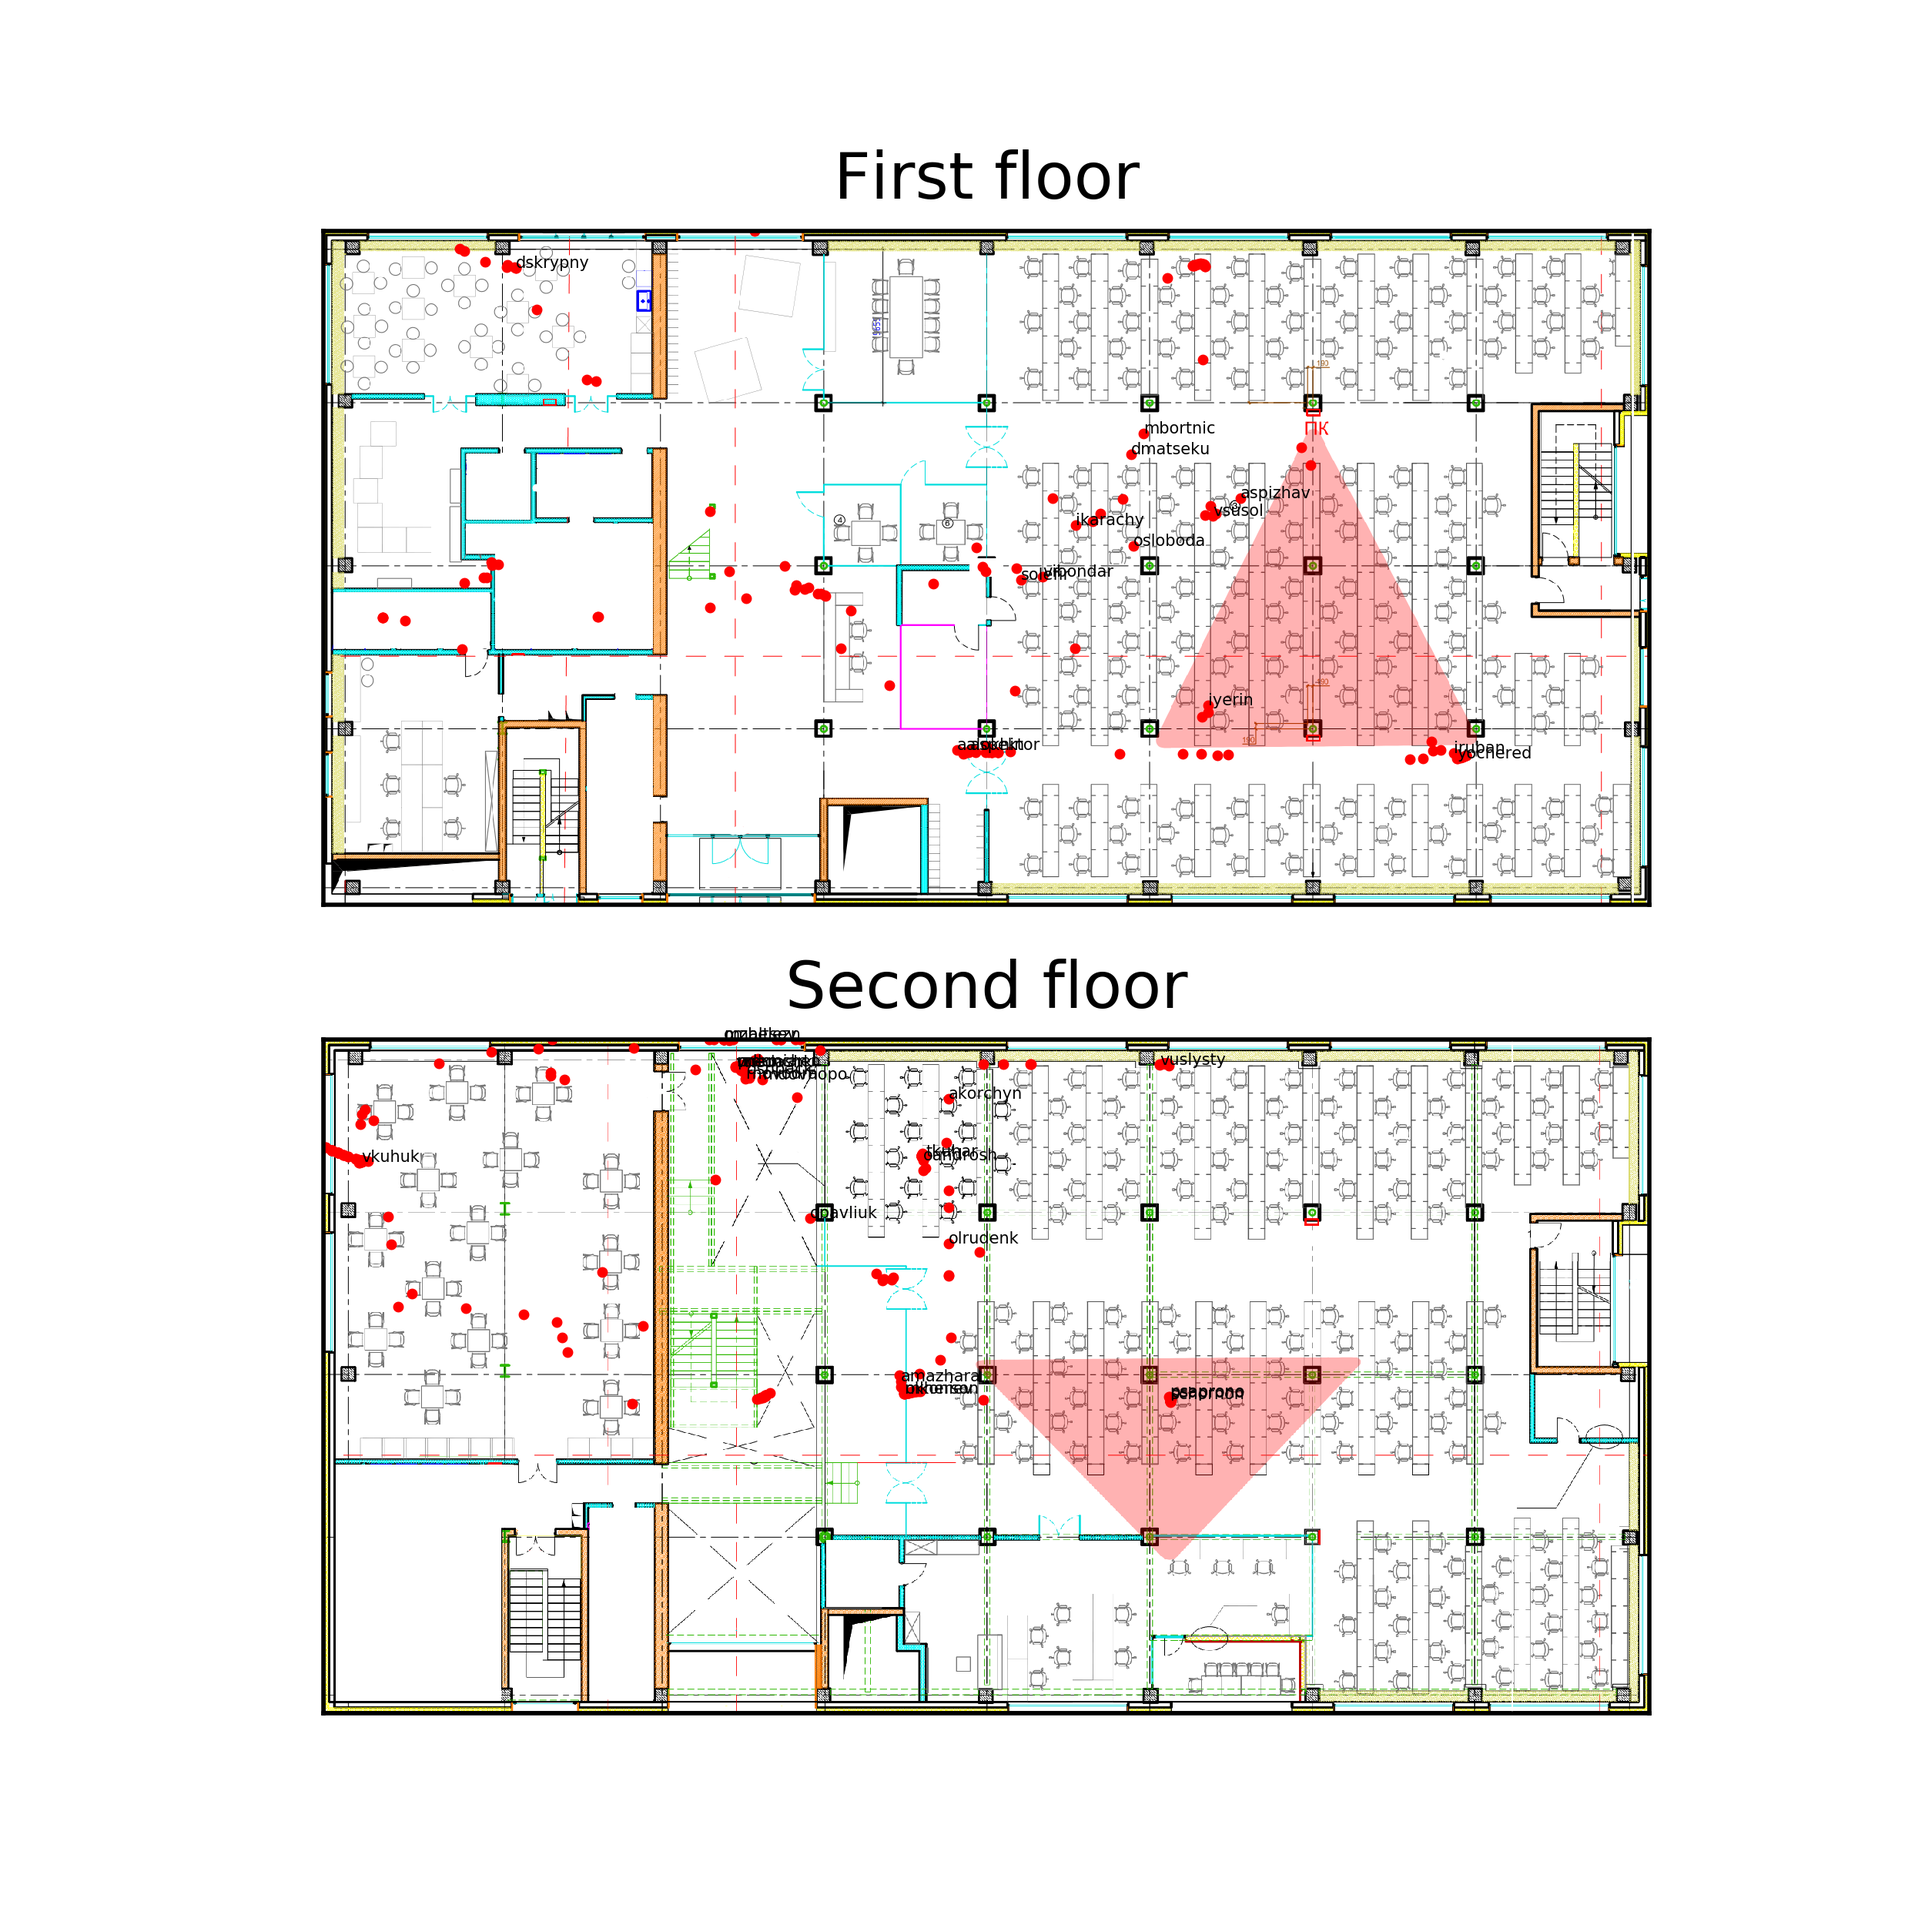
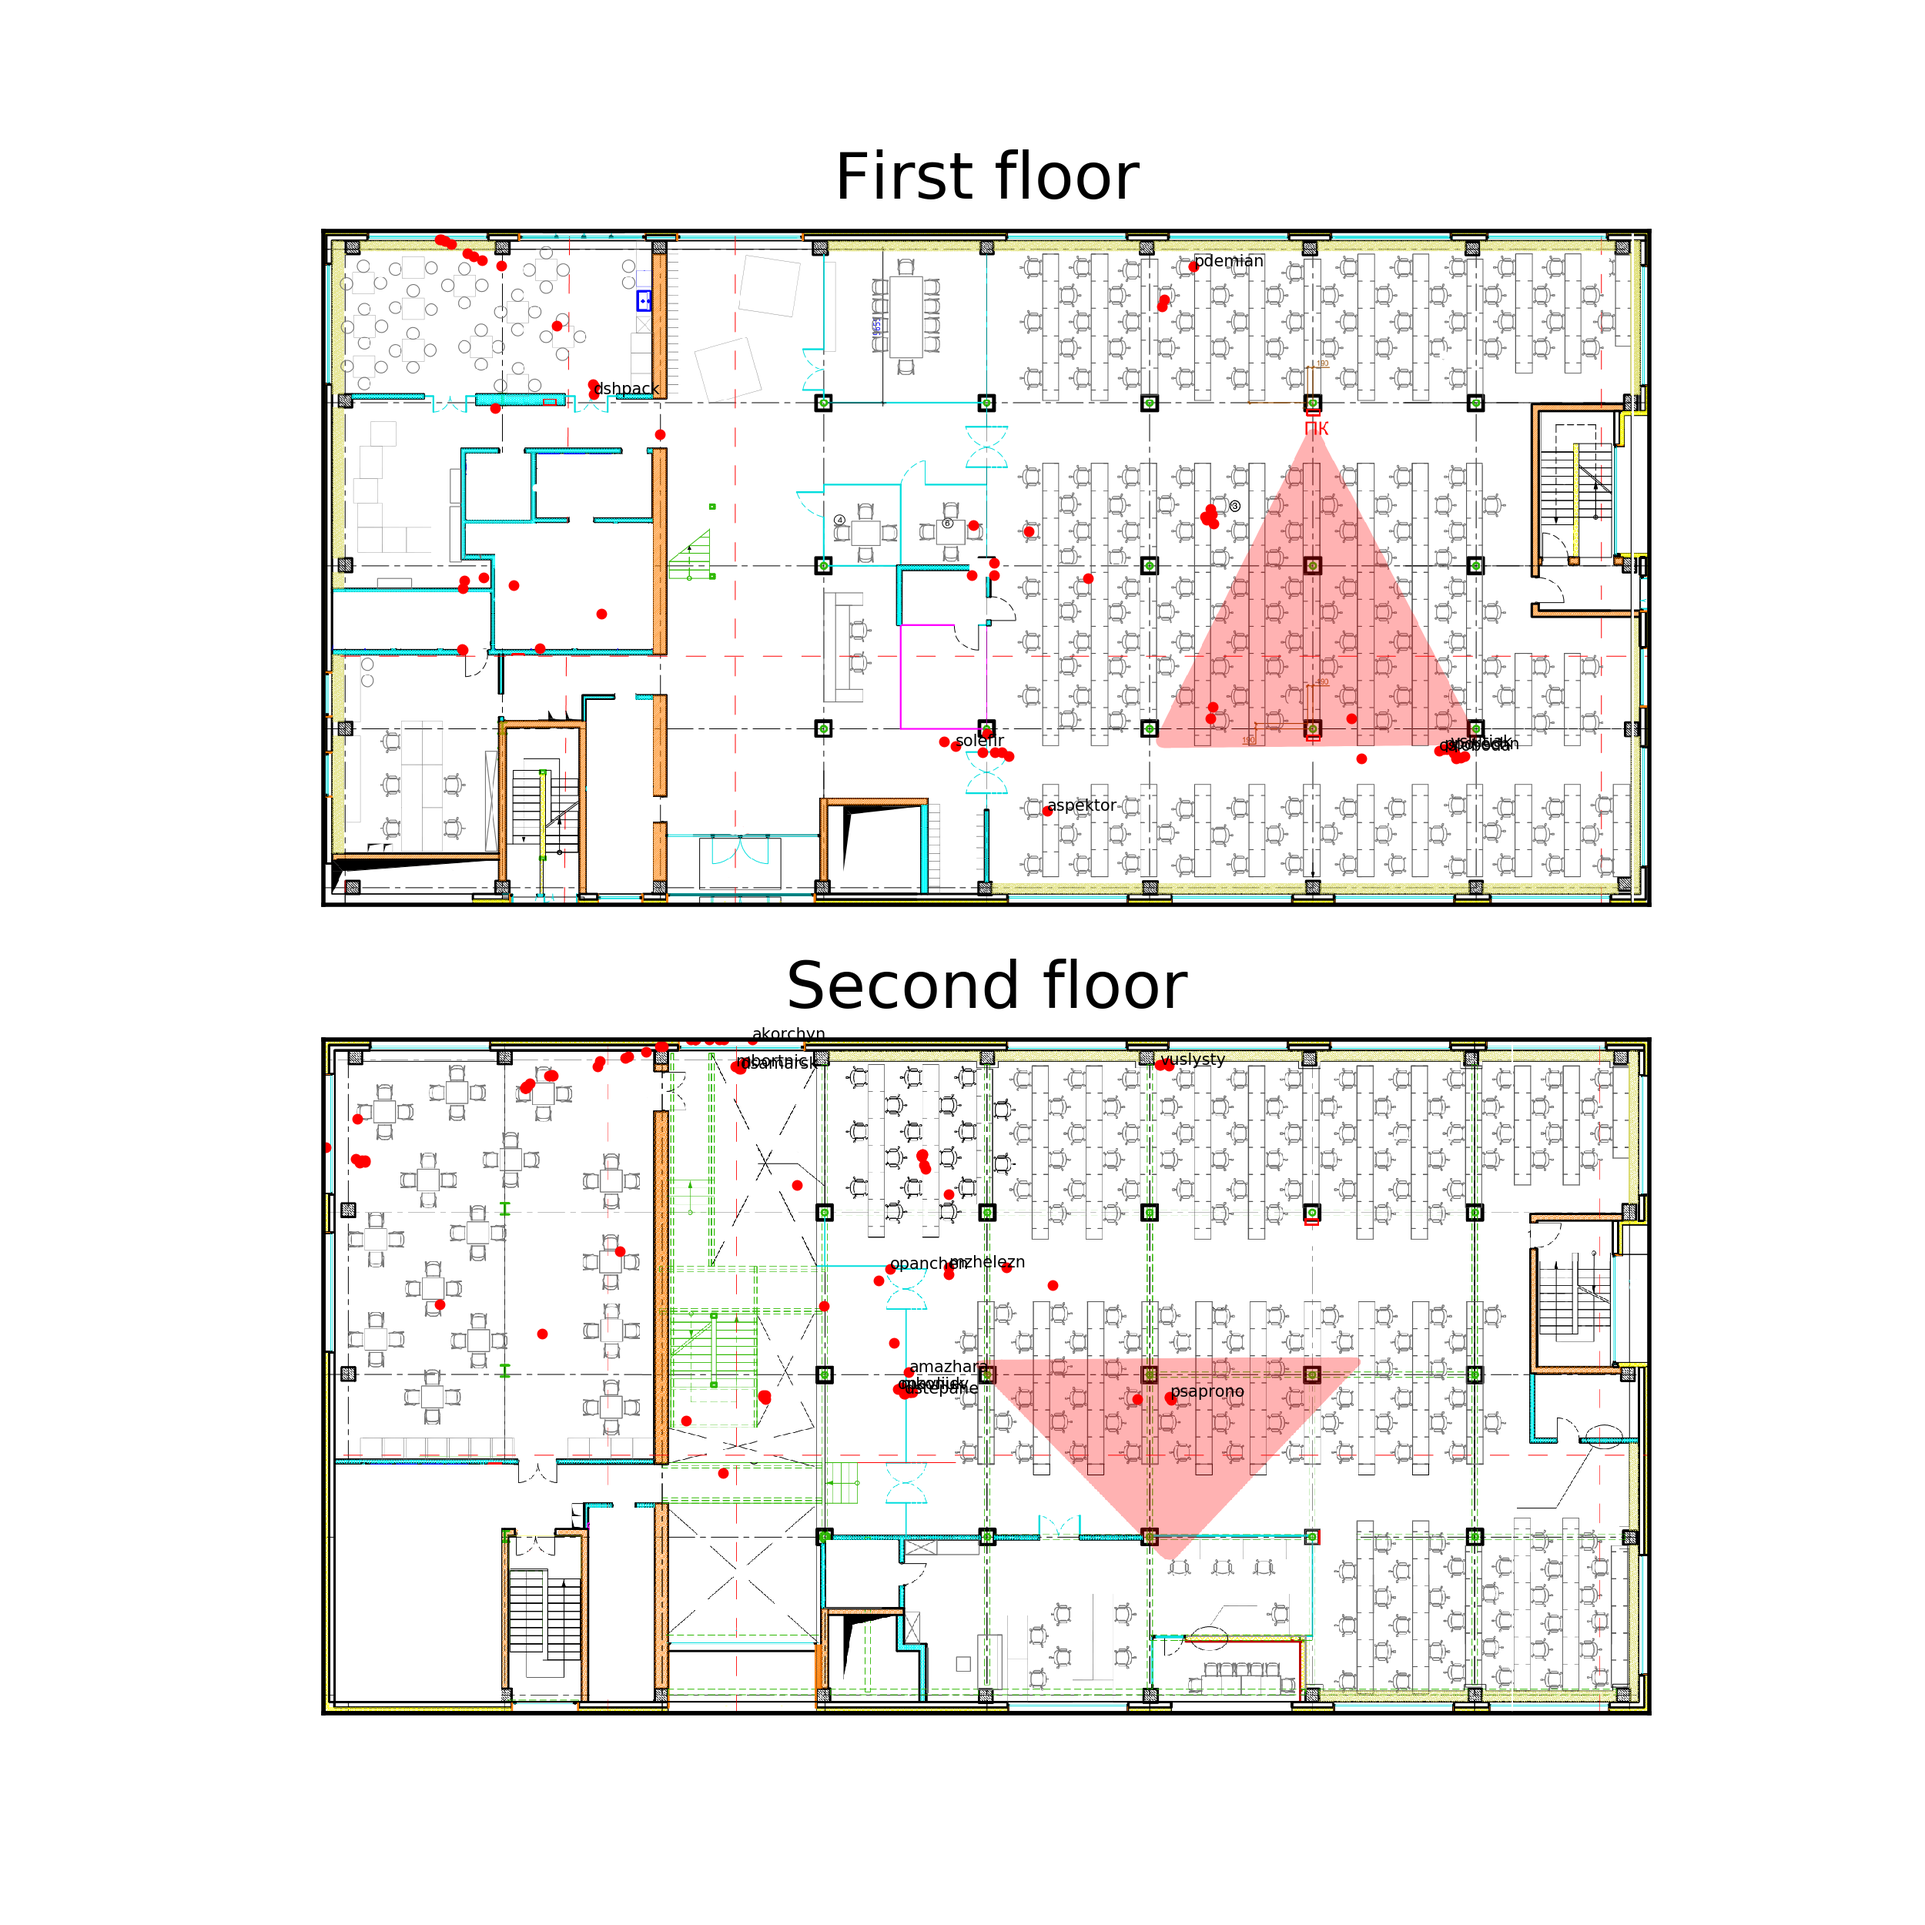
some changes

diff --git a/start.py b/start.py
@@ -5,6 +5,7 @@ from matplotlib.figure import Figure
 import matplotlib.pyplot as plt
 import tkinter as tk
 from tkinter import *
+from tkinter import messagebox
 import requests
 import urllib3
 
@@ -66,8 +67,6 @@ class StartPage(tk.Frame):
 
 
 class Map(tk.Frame):
-    def set_switch(self, cont):
-        self.floor_switch = cont
     def __init__(self, parent, controller):
         tk.Frame.__init__(self, parent)
         self["bg"] = "white"
@@ -106,7 +105,7 @@ class Map(tk.Frame):
         self.button_s_2 = tk.Button(self.leftpanel_switch, state=NORMAL, command=lambda:
         floor_switch(self, 2), text='Floor 2', bd=0, compound=tk.TOP)
         self.button_s_3 = tk.Button(self.leftpanel_switch, state=NORMAL, command=lambda:
-        refreash(self), text='Refresh', bd=0, compound=tk.TOP)
+        refresh(self), text='Refresh', bd=0, compound=tk.TOP)
         self.button_s_3.pack(side=RIGHT)
         self.button_s_2.pack(side=RIGHT)
 
@@ -115,11 +114,13 @@ class Map(tk.Frame):
 
         self.mEntry = Entry(self.leftpanel, textvariable=self.ment)
         self.mEntry.pack(side=TOP, fill=tk.X)
-        self.listbox = Listbox(self.leftpanel, width=50, height=20)
+        self.scrollbar = Scrollbar(self.leftpanel, orient=VERTICAL)
+        self.listbox = Listbox(self.leftpanel, width=50, height=20, yscrollcommand=self.scrollbar.set)
         self.scrollbar = tk.Scrollbar(self.listbox, orient="vertical")
         self.scrollbar.pack(side="right", fill="y")
-
-
+        self.scrollbar.config(command=self.listbox.yview)
+        self.scrollbar.pack(side=RIGHT, fill=Y)
+        self.connected = ""
         self.info_label = Label(self)
         self.f = Figure(figsize=(5, 5), dpi=100)
         self.canvas = FigureCanvasTkAgg(self.f, self)
@@ -133,7 +134,6 @@ class Map(tk.Frame):
         data = self.session.get(hostname + query_active).json()
         list = Listbox(self.leftpanel, bd=2, bg='#9DBFC0', width=27,
             font="Helvetica 16 bold italic", fg = "#3c8081")
-        i = 0
         info_label = Label(self, justify=LEFT, font="Arial 16", fg="#bc5151")
         typed_text = self.ment.get()
 
@@ -143,21 +143,26 @@ class Map(tk.Frame):
                 self.a.plot(mac['mapCoordinate']['x'], mac['mapCoordinate']['y'], 'ro', markersize=8)
                 self.a.text(mac['mapCoordinate']['x'], mac['mapCoordinate']['y'], mac['userName'], fontsize=8)
                 list.insert(END, mac['macAddress'] + ' \t' + mac['userName'])
-                i += mac['mapCoordinate']['x'] + mac['mapCoordinate']['y']
                 label_paste(info_label, mac)
             elif str(self.floor_switch) in mac['mapInfo']['mapHierarchyString'] and mac['ipAddress']:
                 if self.ment and (typed_text in mac['macAddress'] or typed_text in mac['userName']):
                     list.insert(END, mac['macAddress'] + ' \t' + mac['userName'])
-                    i += mac['mapCoordinate']['x'] + mac['mapCoordinate']['y']
                 elif not self.ment:
                     list.insert(END, mac['macAddress'] + ' \t' + mac['userName'])
-                    i += mac['mapCoordinate']['x'] + mac['mapCoordinate']['y']
                 if not self.listbox.curselection():
                     self.a.plot(mac['mapCoordinate']['x'], mac['mapCoordinate']['y'], 'ro', markersize=8)
                     self.a.text(mac['mapCoordinate']['x'], mac['mapCoordinate']['y'], mac['userName'], fontsize=8)
+            if not mac['macAddress'] in self.connected and mac['ipAddress']:
+                self.connected += mac['macAddress']
+                if " " in self.connected and '1' in mac['mapInfo']['mapHierarchyString']:
+                    messagebox.showinfo("Notification", mac['macAddress'] + " " + mac['userName'] + " now is on the first floor")
+                elif " " in self.connected:
+                    messagebox.showinfo("Notification", mac['macAddress'] + " " + mac['userName'] + "now is on the second floor")
+        self.connected += " "
 
         if (self.listbox.curselection()):
             list.selection_set(self.listbox.curselection())
+
         if list:
             self.listbox.pack_forget()
             self.listbox = list
@@ -222,9 +227,10 @@ def floor_switch(self, cont):
     if self.listbox.curselection():
         self.listbox.selection_clear(self.listbox.curselection())
     self.sum = 0
+    refresh(self)
 
 
-def refreash(self):
+def refresh(self):
     self.cur_selection = None
 
 
